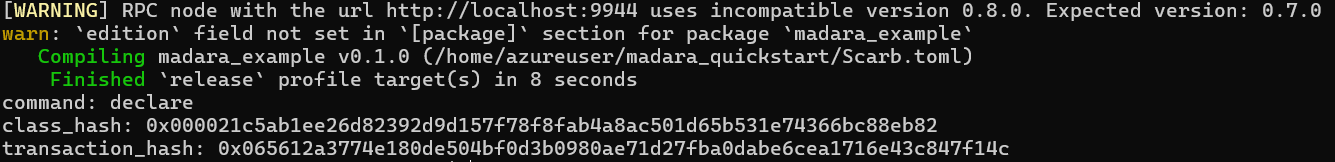
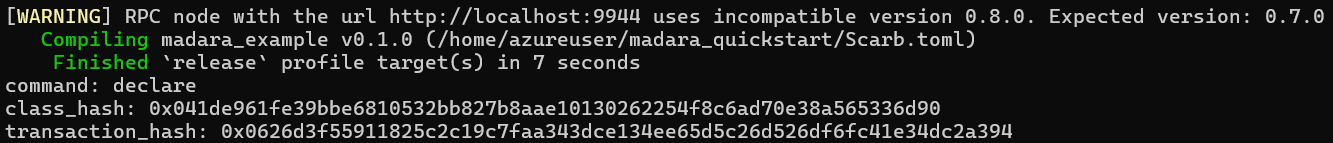
Fix installation and new addresses

Changed region(s): [[0.0, 0.0, 1.0, 0.5594], [0.0, 0.5594, 0.7074, 0.8392], [0.0, 0.8671, 0.7689, 0.979]]

diff --git a/docs/quickstart/use_devnet.md b/docs/quickstart/use_devnet.md
@@ -17,14 +17,18 @@ These installation instructions assume you are using Linux or macOS. For Windows
 Start by installing the specific tooling used in this tutorial:
 ```bash
 curl --proto '=https' --tlsv1.2 -sSf https://sh.starkup.dev | sh -s -- --yes
-exec $SHELL # Reload the current terminal to get new tooling into use
+```
+
+The above will install the required tooling with [Starkup](https://github.com/software-mansion/starkup), a toolchain to help with Starknet development. The installed tools are:
+- [asdf](https://asdf-vm.com/), a runtime version manager. Used by many Starknet tools.
+- [Scarb](https://docs.swmansion.com/scarb/), a build toolchain and package manager.
+- [Starknet Foundry](https://foundry-rs.github.io/starknet-foundry/index.html), a Starknet smart contract development tool.
+
+Now restart your terminal to take the tooling into use. Next, you have to set the correct versions that are compatible with Madara:
+```bash
 asdf install scarb 2.9.2
 asdf set scarb 2.9.2
 ```
-
-The above will install the required tooling with [Starkup](https://github.com/software-mansion/starkup), a toolchain to help with Starknet development. The commands will utilize versions that are tested to be compatible with Madara. The installed tools are:
-- [Scarb](https://docs.swmansion.com/scarb/), a build toolchain and package manager.
-- [Starknet Foundry](https://foundry-rs.github.io/starknet-foundry/index.html), a Starknet smart contract development tool.
 
 ## Prepare your contract
 
@@ -60,7 +64,7 @@ trait IBalance<T> {
 
 #[starknet::contract]
 mod Balance {
-    use core::starknet::storage::{ StoragePointerReadAccess, StoragePointerWriteAccess };
+    use starknet::storage::{ StoragePointerReadAccess, StoragePointerWriteAccess };
 
     #[storage]
     struct Storage {
@@ -159,7 +163,7 @@ If needed, remember to replace the following values in the command below:
 - `class-hash`: the declared class hash
 :::
 ```bash
-sncast --account account-1 deploy --url http://localhost:9944 --salt 1 --class-hash 0x000021c5ab1ee26d82392d9d157f78f8fab4a8ac501d65b531e74366bc88eb82
+sncast --account account-1 deploy --url http://localhost:9944 --salt 1 --class-hash 0x041de961fe39bbe6810532bb827b8aae10130262254f8c6ad70e38a565336d90
 ```
 
 ![Contract address](/img/quickstart-devnet-contract.png "Resulting class contract address")
@@ -176,7 +180,7 @@ If needed, remember to replace the following values in the command below:
 :::
 
 ```bash
-sncast call --url http://localhost:9944 --function get --contract-address 0x00302e4af203c1bf205a7b35ad094844dca9d5ec9e35d270a875d2357cd9a950
+sncast call --url http://localhost:9944 --function get --contract-address 0x021e4332c06c31c764f023f404d6fc2af6f683dbb3e0f258600d7137401fee3a
 ```
 
 You should see value `5` as the initial value (in hexadecimal format).
@@ -190,7 +194,7 @@ If needed, remember to replace the following values in the command below:
 :::
 
 ```bash
-sncast --account account-1 invoke --url http://localhost:9944 --contract-address 0x00302e4af203c1bf205a7b35ad094844dca9d5ec9e35d270a875d2357cd9a950 --function increase --arguments "3"
+sncast --account account-1 invoke --url http://localhost:9944 --contract-address 0x021e4332c06c31c764f023f404d6fc2af6f683dbb3e0f258600d7137401fee3a --function increase --arguments "3"
 ```
 
 If you now query the balance again, you should see value `8`. Congratulations, you have successfully modified the contract's state!
